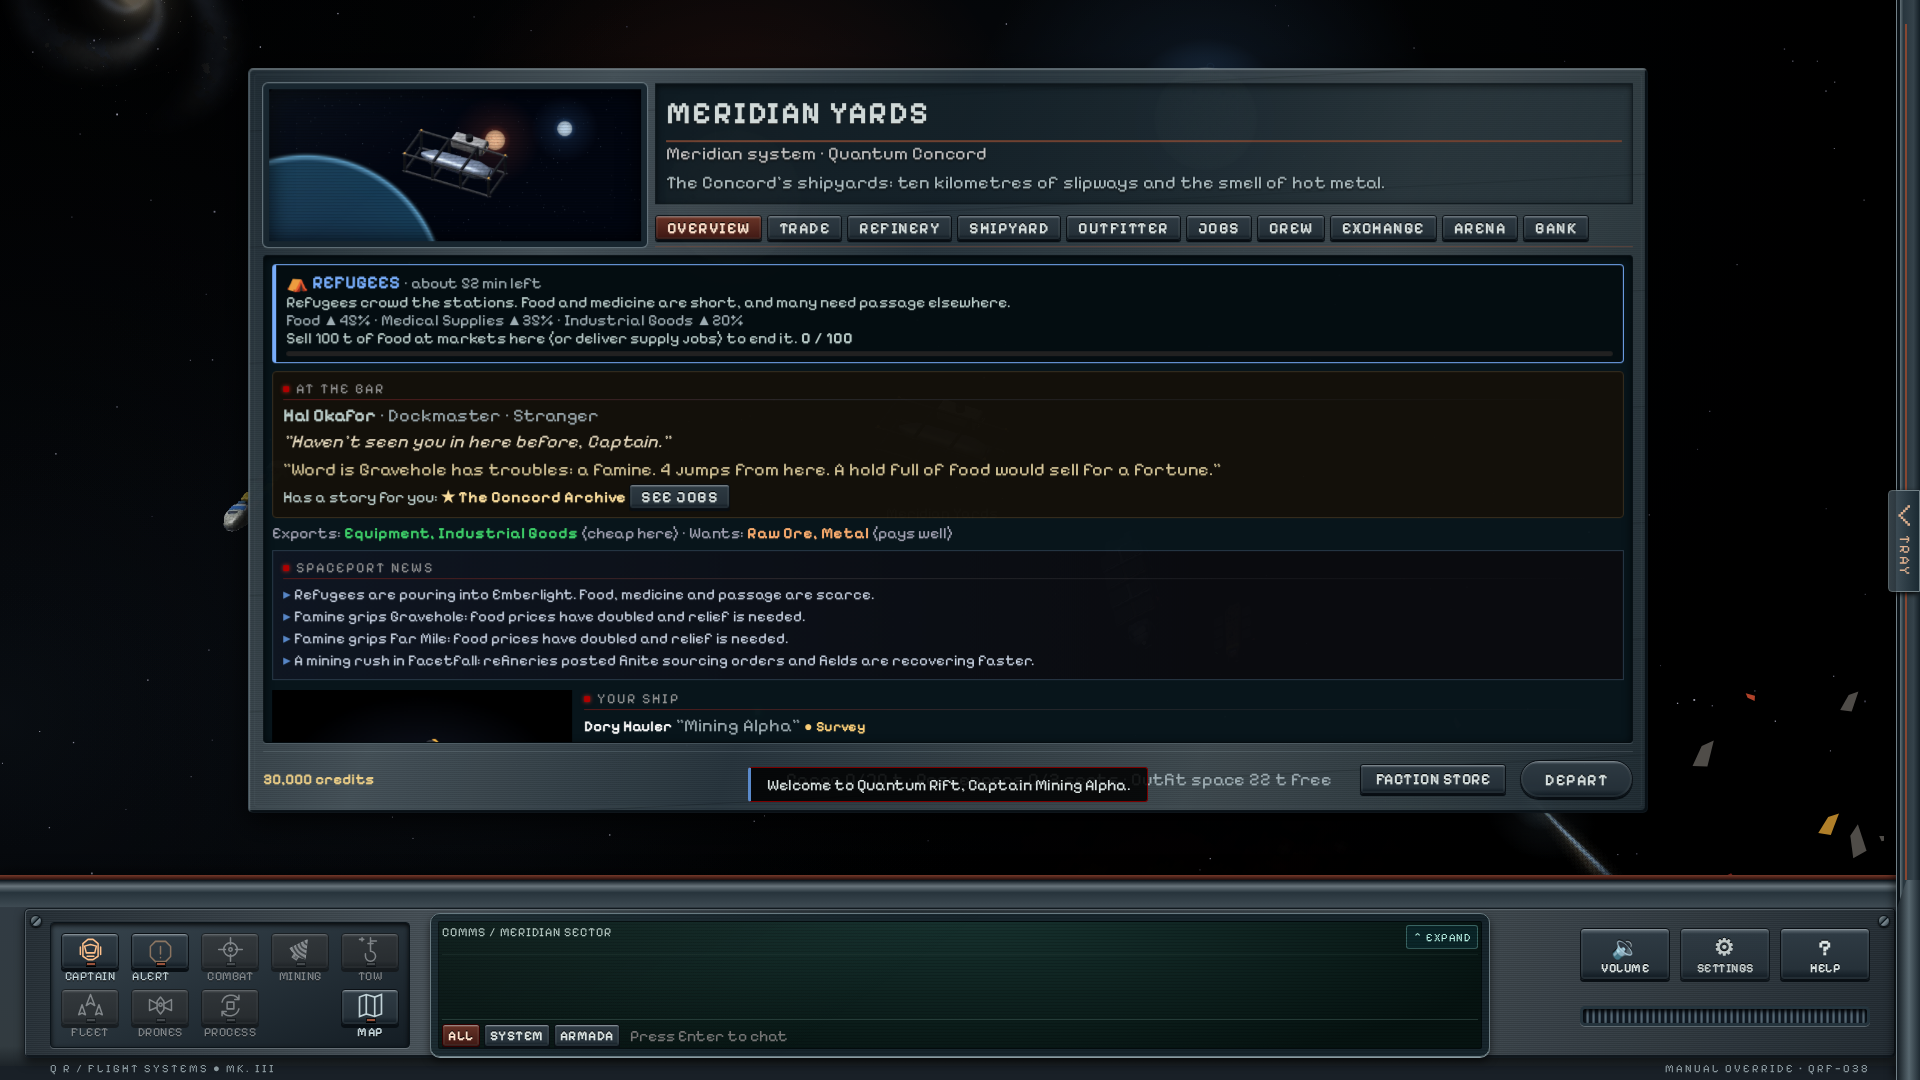
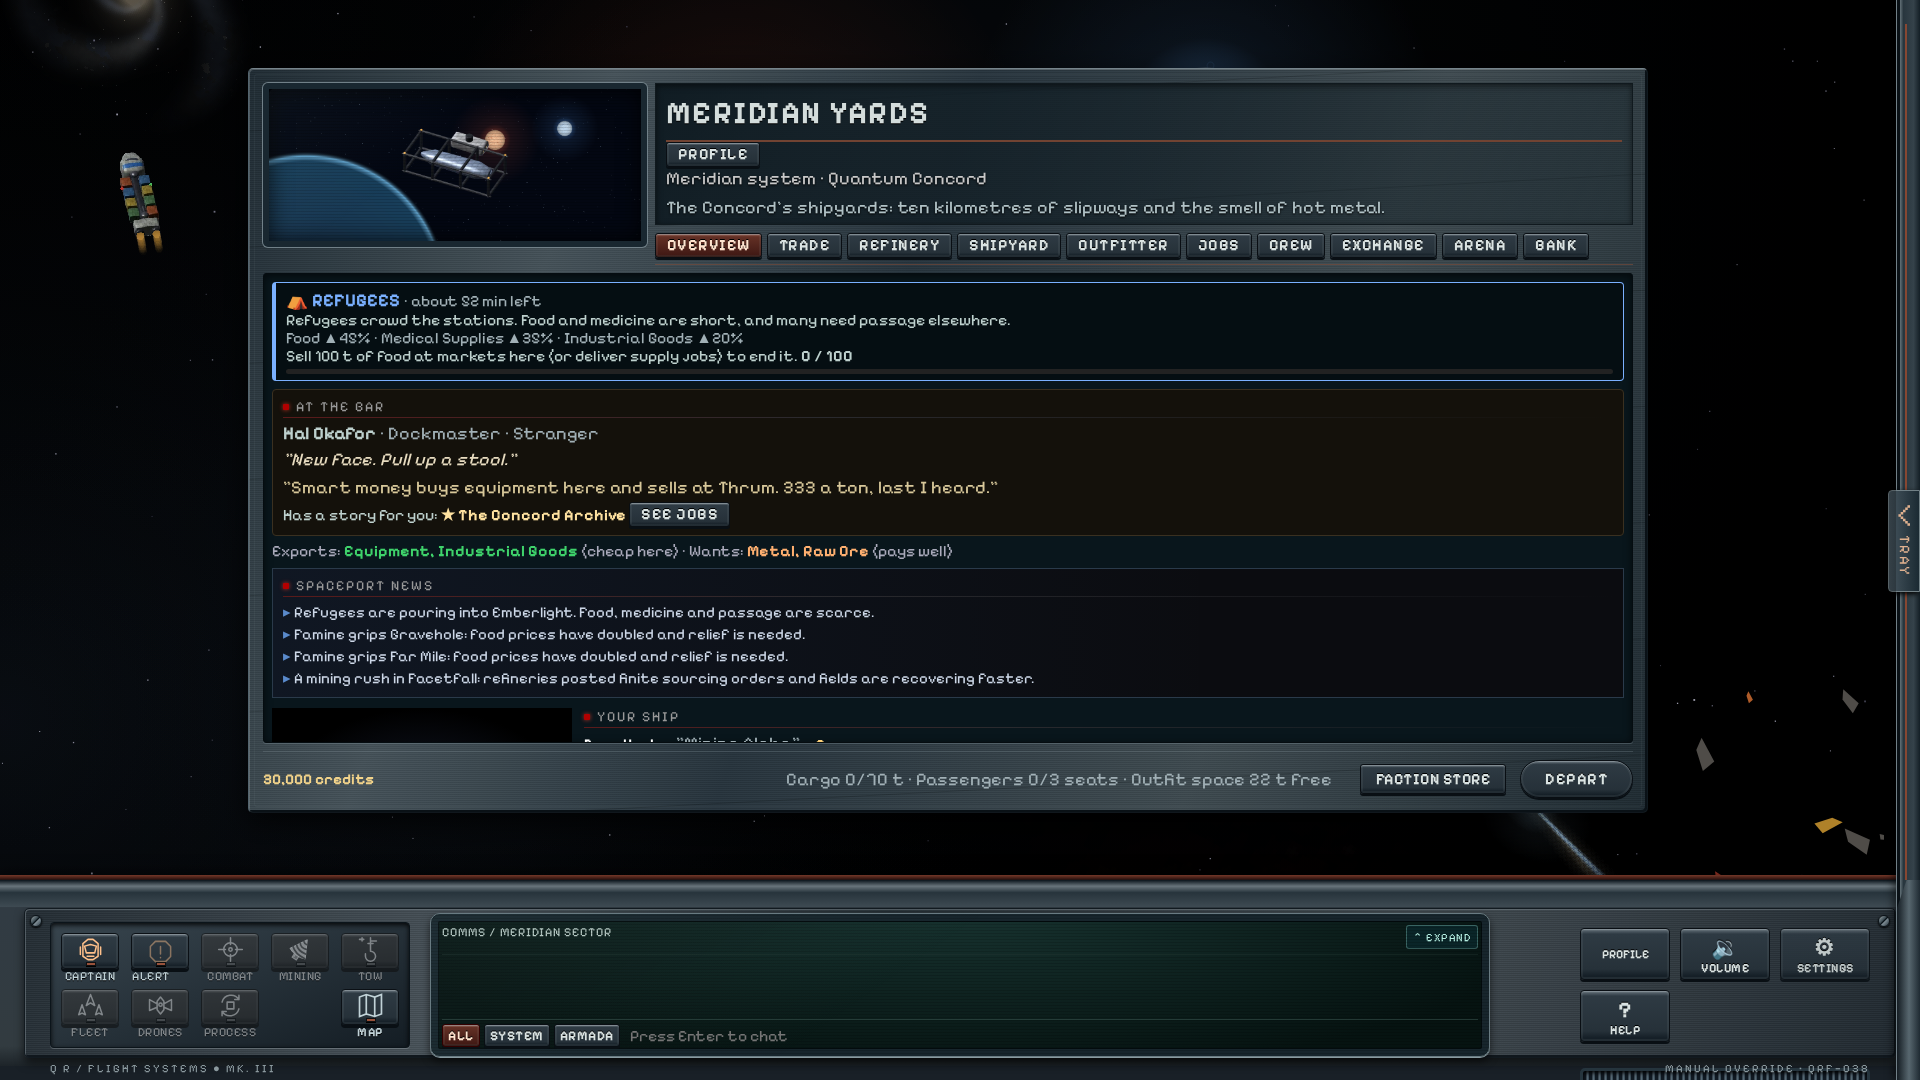
chore(release): prepare 3.3.3 beta

diff --git a/README.md b/README.md
@@ -1,6 +1,6 @@
 # Quantum Rift
 
-![Friend-hosted universe login with separate captain name and password fields](docs/screenshots/friend-host-login.png)
+![Quantum Rift login with music-timed ship formations](docs/screenshots/login-formation.png)
 
 **Quantum Rift is currently in beta and under ongoing development. All features are subject to change.**
 
@@ -8,19 +8,20 @@
 
 **A space trading and combat game in your browser.**
 
-3.3.2 adds a friend-hosted universe alongside local Solo and dedicated online
-play. The flight viewport uses ExcaliburJS, and dedicated online authority runs
-inside Nakama 3.41.0 with PostgreSQL. See the [release notes](docs/RELEASE-3.3.2.md),
-[friend-hosting guide](docs/HOSTING.md) and [dedicated hosting guide](docs/NAKAMA.md).
-Solo and friend games need no Nakama or PostgreSQL service. Dedicated hosting
-requires operator configuration; the download does not deploy those services.
+**3.3.3 — Trinity Stable Beta** adds cockpit and sidebar
+refinements, music-timed login flybys, quieter default effects, planetary colony
+scenes and selectable captain portraits. See the [release notes](docs/RELEASE-3.3.3.md).
 
 Fly a ship through a living galaxy of more than 200 star systems. Trade between worlds, take jobs and bounties, mine asteroids, fight pirates, build up a Personal Station, and lead a fleet of crewed wingmates. Play alone, or host a server where friends team up in an Armada.
 
 The flight viewport uses [ExcaliburJS](https://excaliburjs.com/) for its scene,
 camera, input and native sprite entities. The shared game simulation and HTML cockpit remain in place; engine scripts are
-included locally. Dedicated online authority runs inside Nakama. Friend games run
-one authoritative server on the host’s computer; Solo retains its separate local database.
+included locally. Dedicated online authority runs inside Nakama 3.41.0 with PostgreSQL.
+Friend games run one authoritative server on the host’s computer; Solo retains its
+separate local database. Solo and friend games need no Nakama or PostgreSQL service.
+Dedicated hosting requires operator configuration; the download does not deploy
+those services. See [friend hosting](docs/HOSTING.md) and
+[dedicated hosting](docs/NAKAMA.md).
 
 ## Features
 
@@ -28,6 +29,7 @@ one authoritative server on the host’s computer; Solo retains its separate loc
 
 - Travel between distinctive star systems, rendered planets and stations, from busy trade routes to the remote Eventide frontier.
 - Meet traders, convoys, patrols, pirates and rival captains with their own personalities and careers.
+- Visit illustrated worlds and see colonies grow through three settlement stages.
 - Discover faction stories, spaceport questlines and a main story hidden in the Rift.
 - Hail passing ships for conversation, assistance and encounters. Incoming calls wait until you choose to answer.
 
@@ -64,10 +66,10 @@ one authoritative server on the host’s computer; Solo retains its separate loc
 
 - Solo mode includes pause, save slots and save-file import and export. A newcomer truce limits ambient hostility while you establish your station; missions and deliberate aggression can still lead to combat.
 - Remap controls, adjust interface scale, use a colour-blind palette, or play with a gamepad or touch controls.
+- Choose a captain portrait through **PROFILE** while flying or landed (**ME** in compact flight layouts). Your face appears in public profiles and player hails.
 - Resize the Tray, minimap and tabbed menu to suit your screen. Keep browsing positions and filters, and pin one next objective without hiding your other missions.
 - Login music starts on page load when your browser allows autoplay; otherwise it starts on your first interaction. Saved mute and music levels still apply.
 - Buy from the local Faction Store while landed in faction space, or visit every faction’s store at your own Personal Station. The store shows your standing with the selected faction and updates it after purchases.
-- Login music starts on page load when your browser allows autoplay; otherwise it starts on your first interaction. Saved mute and music levels still apply.
 - Discover five radio stations through exploration and special jobs, with 32 owner-supplied songs and a full-album Spacepop tour reward. Stations shuffle their music except the Super-Idol album, which plays in order.
 - Run locally in your browser with the project’s pinned Node.js runtime. Built releases need no package installation or compilation.
 
@@ -139,6 +141,18 @@ Save imports remain Solo-only.
 
 ![Landed service menu with system traffic behind it](docs/screenshots/responsive-landed.png)
 
+**Growing colonies**
+
+![A level-five colony on Far Prime with its settlement-stage illustration](docs/screenshots/colony-stage3.png)
+
+**Captain portraits**
+
+![Captain profile with selectable portrait cards and the saved portrait preview](docs/screenshots/profile-chooser.png)
+
+**Hails and caller portraits**
+
+![Docking-control hail displaying the caller portrait over the landed colony view](docs/screenshots/docking-hail.png)
+
 **Galaxy map**
 
 ![In-game galaxy map menu](docs/screenshots/responsive-map.png)
@@ -150,3 +164,7 @@ Save imports remain Solo-only.
 **Local faction store**
 
 ![The local Concord store with live faction standing while landed in Concord space](docs/screenshots/faction-store-local.png)
+
+**Friend-hosted universe**
+
+![Friend-hosted universe login with separate captain name and password fields](docs/screenshots/friend-host-login.png)

diff --git a/docs/RELEASE-3.3.3.md b/docs/RELEASE-3.3.3.md
@@ -1,0 +1,47 @@
+# Quantum Rift 3.3.3 — Trinity Stable Beta
+
+## Cockpit and sidebar
+
+- Read larger cockpit text, expand chat above the console and open ship and captain details from the helmet or **I**.
+- Distinguish combat targeting from patrol scans: red takes priority over orange, and reduced-motion mode retains the color without blinking.
+- Keep automatic radar square as the sidebar changes size. Retain separate radar and menu sizing preferences and reachable controls at narrow widths and different interface scales.
+- Receive landing feedback without repeated copies of the same pending refusal. Server-side landing checks remain authoritative.
+
+## Login and audio
+
+- Watch login traffic follow the actual playing theme, including staged formations. Flybys respect reduced motion and visibility; they do not advance through suspended audio as though it were playing.
+- Start new effects settings at 50%. Existing saved settings, explicit zero and mute remain unchanged, with separate music and interface controls.
+- Hear a softer purchase signal for confirmed purchases, including buying a ship into the hangar. Sales, cancelled confirmations and disabled controls do not trigger it.
+
+## Worlds and captain portraits
+
+- Use 908 planetary illustrations across 227 scene sets. Each set includes an unsettled scene and three colony stages: level 1, levels 2–3 and levels 4–5.
+- Retain explicit scene mappings for 179 current worlds, with deterministic biome choices for future unmapped worlds. Original Earth and station images remain unchanged; stations retain their separate live presentation.
+- Use 70 portraits, including explicit identities for all 30 named rivals. Named rivals are excluded from the selectable generic pool.
+- Open **PROFILE** in flight or while landed to preview and save a captain portrait; the flight button reads **ME** in compact layouts. Only the authenticated captain's selection can change, and the chooser confirms saving after the server acknowledges it.
+- Show captain faces in public profiles and hails. Archived transmissions retain their captured caller identity after a ship leaves or despawns.
+
+## Download and update
+
+Download and extract the complete ZIP. Close the previous server before starting the new
+copy, and preserve existing `data/`, `solo-data/` and `friend-data/` folders.
+Use the [pinned Node 27 runtime](TYPESCRIPT-RUNTIME.md). Complete releases include
+compiled modules and bundled libraries; source checkouts require `npm ci` and
+`npm run build`.
+
+The beta Solo save generator retains custom captain, credits, ship and station
+controls. Save import/export and pause remain Solo-only. Local saves do not
+automatically migrate to Nakama or synchronize between backends.
+
+Solo and friend games need no Nakama or PostgreSQL. Dedicated online hosting
+still requires separately configured Nakama 3.41.0, PostgreSQL, keys, backups and
+network security. Ordinary startup starts the static web host, not those services.
+See [friend hosting](HOSTING.md) and [native hosting](NAKAMA.md).
+
+Friend games run only while the host server is open and require a reachable
+address. They provide no automatic NAT traversal, router/firewall changes, host
+migration or peer-to-peer simulation. Use a trusted LAN/VPN, or configure HTTPS/WSS
+before exposing sign-in publicly.
+
+The game remains in beta. Regression checks cover selected fixtures and browser
+layouts, not every device, performance level, random seed or production workload.

diff --git a/docs/HAILING.md b/docs/HAILING.md
@@ -12,7 +12,7 @@ The inbox includes **Allow player hails**. Existing Captain privacy also applies
 
 Hail windows show a framed caller portrait with the same static scanline effect as landed artwork. Thirty named captains have individual portraits. Other NPC portraits are selected deterministically from faction pools; opening the same call does not reroll the face. Archived NPC transmissions retain their captured portrait after the sender leaves. Closing the window or returning to the inbox clears the caller image.
 
-Open **PROFILE** from the flight command bar or landed world header to choose your captain portrait. The preview is not saved until you select **SAVE PORTRAIT** and receive server confirmation. Your choice appears in public captain profiles and player hails, and uses the existing Solo or native online account storage. Named NPC portraits are not selectable. Escape closes the chooser and returns focus to the button that opened it.
+Open **PROFILE** from the flight command bar or landed world header to choose your captain portrait; compact flight controls label the button **ME**. The preview is not saved until you select **SAVE PORTRAIT** and receive server confirmation. Your choice appears in public captain profiles and player hails, and uses the existing Solo or native online account storage. Named NPC portraits are not selectable. Escape closes the chooser and returns focus to the button that opened it.
 
 ## NPC dialogue and pacing
 

diff --git a/CHANGELOG.md b/CHANGELOG.md
@@ -2,6 +2,15 @@
 
 Every release, newest first. The main story is left out on purpose.
 
+### 3.3.3 — Trinity Stable Beta
+
+- Refine cockpit text, chat, captain details and combat/patrol alerts, with responsive layouts and reduced-motion behavior.
+- Keep automatic radar square, retain sidebar sizing preferences and improve landing feedback without changing server landing authority.
+- Time login ship flybys to the playing theme. Reduce the fresh effects default to 50% while preserving saved levels, explicit zero and mute; add a softer purchase sound for purchases, not sales or cancelled confirmations.
+- Add 908 planetary illustrations across 227 scene sets, with three settlement stages selected from authoritative colony levels. Preserve 179 existing world mappings and keep station artwork separate.
+- Add 70 captain portraits, including 30 named rivals. Choose an available generic portrait through PROFILE; retain server-authoritative saves, public profiles and caller identity in live and archived hails.
+- Refresh the beta Solo save generator catalog for 3.3.3. See the [release notes](docs/RELEASE-3.3.3.md) for update and hosting limits.
+
 ### 3.3.2 — Friend games and native online hosting
 
 - Add explicit friend-game launchers with one host-owned shared world, separate password captains and independent private saves; retain Solo-only pause and import/export.
